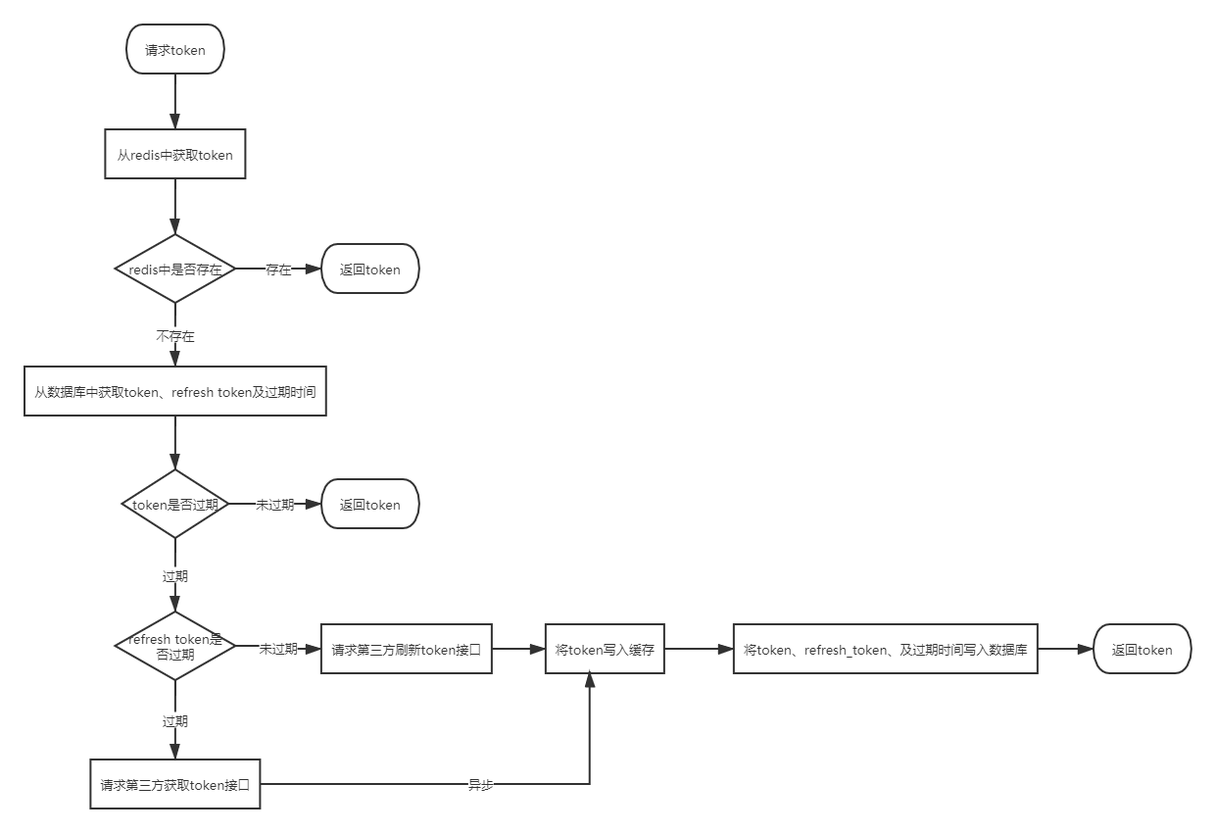
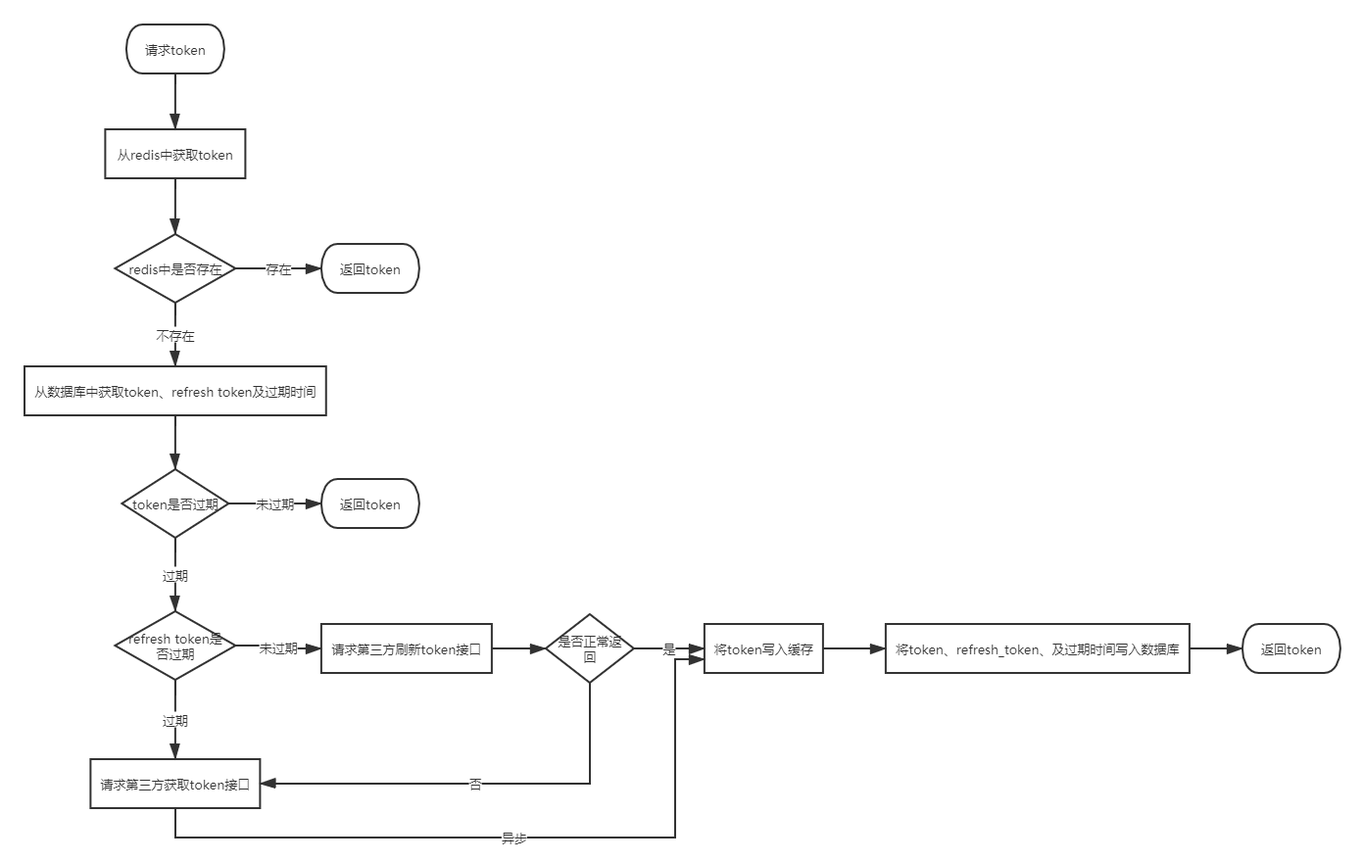
Site updated: 2021-05-08 11:41:47

Changed region(s): [[0.0, 0.0306, 1.0, 0.9788]]

diff --git a/2020/05/06/第三方开放平台登录授权设计与实现/index.html b/2020/05/06/第三方开放平台登录授权设计与实现/index.html
@@ -56,7 +56,7 @@
 <meta property="og:image" content="http://yoursite.com/images/architecture/%E7%AC%AC%E4%B8%89%E6%96%B9%E7%99%BB%E5%BD%95%E6%8E%88%E6%9D%83%E6%8E%A5%E5%8F%A3%E5%AE%9E%E7%8E%B0UML%E7%B1%BB%E5%9B%BE.png">
 <meta property="og:image" content="http://yoursite.com/images/architecture/%E7%AC%AC%E4%B8%89%E6%96%B9token%E8%AF%B7%E6%B1%82%E6%B5%81%E7%A8%8B.png">
 <meta property="article:published_time" content="2020-05-06T07:00:00.000Z">
-<meta property="article:modified_time" content="2021-05-07T13:35:49.600Z">
+<meta property="article:modified_time" content="2021-05-08T03:35:58.079Z">
 <meta property="article:author" content="晴天">
 <meta name="twitter:card" content="summary">
 <meta name="twitter:image" content="http://yoursite.com/images/architecture/%E7%AC%AC%E4%B8%89%E6%96%B9%E7%99%BB%E5%BD%95%E6%8E%88%E6%9D%83%E6%8E%A5%E5%8F%A3%E5%AE%9E%E7%8E%B0UML%E7%B1%BB%E5%9B%BE.png">
@@ -208,7 +208,7 @@
                   <i class="fa fa-calendar-check-o"></i>
                 </span>
                 <span class="post-meta-item-text">更新于</span>
-                <time title="修改时间：2021-05-07 21:35:49" itemprop="dateModified" datetime="2021-05-07T21:35:49+08:00">2021-05-07</time>
+                <time title="修改时间：2021-05-08 11:35:58" itemprop="dateModified" datetime="2021-05-08T11:35:58+08:00">2021-05-08</time>
               </span>
             <span class="post-meta-item">
               <span class="post-meta-item-icon">
@@ -424,7 +424,7 @@
 <h1 id="Oauth-2-0-state-参数"><a href="#Oauth-2-0-state-参数" class="headerlink" title="Oauth 2.0 state 参数"></a>Oauth 2.0 state 参数</h1><p>在请求第三方code时，还需要传递state参数，它是由client使用的不透明参数，用于请求阶段和回调阶段之间的状态保持。请求示例：</p>
 <figure class="highlight plain"><table><tr><td class="gutter"><pre><span class="line">1</span><br></pre></td><td class="code"><pre><span class="line">https:&#x2F;&#x2F;open-oauth.jd.com&#x2F;oauth2&#x2F;authorizeForVOP?app_key&#x3D;xxx&amp;redirect_uri&#x3D;xxx&amp;username&#x3D;xxx&amp;password&#x3D;xxx&amp;response_type&#x3D;code&amp;scope&#x3D;snsapi_base&amp;state&#x3D;xxx</span><br></pre></td></tr></table></figure>
 <p>state可以是一个随机字符串，然后保存在内存里，回调时检查state参数和内存里的值。</p>
-<figure class="highlight java"><table><tr><td class="gutter"><pre><span class="line">1</span><br><span class="line">2</span><br><span class="line">3</span><br><span class="line">4</span><br><span class="line">5</span><br><span class="line">6</span><br><span class="line">7</span><br><span class="line">8</span><br><span class="line">9</span><br><span class="line">10</span><br><span class="line">11</span><br><span class="line">12</span><br><span class="line">13</span><br><span class="line">14</span><br><span class="line">15</span><br><span class="line">16</span><br><span class="line">17</span><br><span class="line">18</span><br><span class="line">19</span><br><span class="line">20</span><br><span class="line">21</span><br><span class="line">22</span><br><span class="line">23</span><br><span class="line">24</span><br><span class="line">25</span><br><span class="line">26</span><br><span class="line">27</span><br><span class="line">28</span><br><span class="line">29</span><br><span class="line">30</span><br><span class="line">31</span><br><span class="line">32</span><br><span class="line">33</span><br><span class="line">34</span><br><span class="line">35</span><br><span class="line">36</span><br><span class="line">37</span><br><span class="line">38</span><br><span class="line">39</span><br><span class="line">40</span><br><span class="line">41</span><br><span class="line">42</span><br><span class="line">43</span><br><span class="line">44</span><br><span class="line">45</span><br><span class="line">46</span><br><span class="line">47</span><br><span class="line">48</span><br><span class="line">49</span><br><span class="line">50</span><br><span class="line">51</span><br><span class="line">52</span><br><span class="line">53</span><br><span class="line">54</span><br><span class="line">55</span><br><span class="line">56</span><br><span class="line">57</span><br><span class="line">58</span><br><span class="line">59</span><br><span class="line">60</span><br><span class="line">61</span><br><span class="line">62</span><br><span class="line">63</span><br><span class="line">64</span><br><span class="line">65</span><br></pre></td><td class="code"><pre><span class="line"><span class="comment">/**</span></span><br><span class="line"><span class="comment"> * 第三方帐号 Service</span></span><br><span class="line"><span class="comment"> *</span></span><br><span class="line"><span class="comment"> * <span class="doctag">@author</span> cdrcool</span></span><br><span class="line"><span class="comment"> */</span></span><br><span class="line"><span class="meta">@Slf</span>4j</span><br><span class="line"><span class="keyword">public</span> <span class="keyword">abstract</span> <span class="class"><span class="keyword">class</span> <span class="title">ThirdAccountService</span> </span>&#123;</span><br><span class="line">    <span class="keyword">private</span> <span class="keyword">static</span> <span class="keyword">final</span> Map&lt;String, TokenRequestInfo&gt; STORE = <span class="keyword">new</span> ConcurrentHashMap&lt;&gt;();</span><br><span class="line"></span><br><span class="line">    <span class="comment">/**</span></span><br><span class="line"><span class="comment">     * 请求第三方token</span></span><br><span class="line"><span class="comment">     *</span></span><br><span class="line"><span class="comment">     * <span class="doctag">@param</span> taxpayerId     纳税人识别号</span></span><br><span class="line"><span class="comment">     * <span class="doctag">@param</span> deferredResult &#123;<span class="doctag">@link</span> DeferredResult&#125;</span></span><br><span class="line"><span class="comment">     */</span></span><br><span class="line">    <span class="function"><span class="keyword">public</span> <span class="keyword">void</span> <span class="title">requestAccessToken</span><span class="params">(String taxpayerId, DeferredResult&lt;String&gt; deferredResult)</span> </span>&#123;</span><br><span class="line">        ThirdAccount thirdAccount = getThirdAccount(taxpayerId);</span><br><span class="line">        String state = UUID.randomUUID().toString();</span><br><span class="line">        requestAccessToken(thirdAccount, state);</span><br><span class="line"></span><br><span class="line">        TokenRequestInfo tokenRequestInfo = <span class="keyword">new</span> TokenRequestInfo(state, accountType(), thirdAccount.getAccount());</span><br><span class="line">        <span class="comment">// 保存当前请求的deferredResult，在token回调成功后对其setResult</span></span><br><span class="line">        tokenRequestInfo.setDeferredResult(deferredResult);</span><br><span class="line">        STORE.put(state, tokenRequestInfo);</span><br><span class="line">    &#125;</span><br><span class="line"></span><br><span class="line">    <span class="comment">/**</span></span><br><span class="line"><span class="comment">     * 获取第三方token回调</span></span><br><span class="line"><span class="comment">     *</span></span><br><span class="line"><span class="comment">     * <span class="doctag">@param</span> code  授权码</span></span><br><span class="line"><span class="comment">     * <span class="doctag">@param</span> state 回传state（与传递给第三方的state一致）</span></span><br><span class="line"><span class="comment">     */</span></span><br><span class="line">    <span class="meta">@Async</span></span><br><span class="line">    <span class="function"><span class="keyword">public</span> <span class="keyword">void</span> <span class="title">callbackToken</span><span class="params">(String code, String state)</span> </span>&#123;</span><br><span class="line">        TokenResponse response = getTokenResponse(code);</span><br><span class="line"></span><br><span class="line">        TokenRequestInfo tokenRequestInfo = STORE.get(state);</span><br><span class="line">        <span class="keyword">if</span> (tokenRequestInfo == <span class="keyword">null</span>) &#123;</span><br><span class="line">            <span class="keyword">throw</span> <span class="keyword">new</span> ThirdAccountException(<span class="string">"未找到与state：&#123;&#125;对应的token请求信息："</span> + state);</span><br><span class="line">        &#125;</span><br><span class="line">        log.info(<span class="string">"找到state：&#123;&#125;对应的第三方帐号：&#123;&#125;"</span>, state, tokenRequestInfo.getAccount());</span><br><span class="line"></span><br><span class="line">        <span class="comment">// 将第三方帐号及其对应的token存到redis缓存</span></span><br><span class="line">        redisTemplate.opsForValue().set(tokenRequestInfo.getAccount(), response.getAccessToken(), response.getExpiresIn(), TimeUnit.SECONDS);</span><br><span class="line"></span><br><span class="line">        <span class="comment">// 查找第三方帐号，并更新其对应的token响应</span></span><br><span class="line">        LambdaQueryWrapper&lt;ThirdAccount&gt; jdAccountWrapper = Wrappers.lambdaQuery();</span><br><span class="line">        jdAccountWrapper.eq(ThirdAccount::getAccount, tokenRequestInfo.getAccount());</span><br><span class="line">        ThirdAccount thirdAccount = thirdAccountMapper.selectOne(jdAccountWrapper);</span><br><span class="line">        <span class="keyword">if</span> (thirdAccount == <span class="keyword">null</span>) &#123;</span><br><span class="line">            <span class="keyword">throw</span> <span class="keyword">new</span> ThirdAccountException(<span class="string">"未找到第三方帐号："</span> + tokenRequestInfo.getAccount());</span><br><span class="line">        &#125;</span><br><span class="line">        thirdAccount.setAccessToken(response.getAccessToken());</span><br><span class="line">        thirdAccount.setRefreshToken(response.getRefreshToken());</span><br><span class="line">        thirdAccount.setAccessTokenExpiresAt(response.getTime() + response.getExpiresIn() * <span class="number">1000</span>);</span><br><span class="line">        thirdAccount.setRefreshTokenExpiresAt(response.getTime() + response.getRefreshTokenExpires() * <span class="number">1000</span>);</span><br><span class="line">        thirdAccountMapper.updateById(thirdAccount);</span><br><span class="line"></span><br><span class="line">        DeferredResult&lt;String&gt; deferredResult = tokenRequestInfo.getDeferredResult();</span><br><span class="line">        <span class="keyword">if</span> (deferredResult != <span class="keyword">null</span>) &#123;</span><br><span class="line">            <span class="comment">// 将token设置到deferredResult里</span></span><br><span class="line">            deferredResult.setResult(response.getAccessToken());</span><br><span class="line">        &#125;</span><br><span class="line">    &#125;</span><br><span class="line">&#125;</span><br></pre></td></tr></table></figure>
+<figure class="highlight java"><table><tr><td class="gutter"><pre><span class="line">1</span><br><span class="line">2</span><br><span class="line">3</span><br><span class="line">4</span><br><span class="line">5</span><br><span class="line">6</span><br><span class="line">7</span><br><span class="line">8</span><br><span class="line">9</span><br><span class="line">10</span><br><span class="line">11</span><br><span class="line">12</span><br><span class="line">13</span><br><span class="line">14</span><br><span class="line">15</span><br><span class="line">16</span><br><span class="line">17</span><br><span class="line">18</span><br><span class="line">19</span><br><span class="line">20</span><br><span class="line">21</span><br><span class="line">22</span><br><span class="line">23</span><br><span class="line">24</span><br><span class="line">25</span><br><span class="line">26</span><br><span class="line">27</span><br><span class="line">28</span><br><span class="line">29</span><br><span class="line">30</span><br><span class="line">31</span><br><span class="line">32</span><br><span class="line">33</span><br><span class="line">34</span><br><span class="line">35</span><br><span class="line">36</span><br><span class="line">37</span><br><span class="line">38</span><br><span class="line">39</span><br><span class="line">40</span><br><span class="line">41</span><br><span class="line">42</span><br><span class="line">43</span><br><span class="line">44</span><br><span class="line">45</span><br><span class="line">46</span><br><span class="line">47</span><br><span class="line">48</span><br><span class="line">49</span><br><span class="line">50</span><br><span class="line">51</span><br><span class="line">52</span><br><span class="line">53</span><br><span class="line">54</span><br><span class="line">55</span><br><span class="line">56</span><br><span class="line">57</span><br><span class="line">58</span><br><span class="line">59</span><br><span class="line">60</span><br><span class="line">61</span><br><span class="line">62</span><br><span class="line">63</span><br></pre></td><td class="code"><pre><span class="line"><span class="comment">/**</span></span><br><span class="line"><span class="comment"> * 第三方帐号 Service</span></span><br><span class="line"><span class="comment"> *</span></span><br><span class="line"><span class="comment"> * <span class="doctag">@author</span> cdrcool</span></span><br><span class="line"><span class="comment"> */</span></span><br><span class="line"><span class="meta">@Slf</span>4j</span><br><span class="line"><span class="keyword">public</span> <span class="keyword">abstract</span> <span class="class"><span class="keyword">class</span> <span class="title">ThirdAccountService</span> </span>&#123;</span><br><span class="line">    <span class="keyword">private</span> <span class="keyword">static</span> <span class="keyword">final</span> Map&lt;String, TokenRequestInfo&gt; STORE = <span class="keyword">new</span> ConcurrentHashMap&lt;&gt;();</span><br><span class="line"></span><br><span class="line">    <span class="comment">/**</span></span><br><span class="line"><span class="comment">     * 请求第三方token</span></span><br><span class="line"><span class="comment">     *</span></span><br><span class="line"><span class="comment">     * <span class="doctag">@param</span> taxpayerId     纳税人识别号</span></span><br><span class="line"><span class="comment">     * <span class="doctag">@param</span> deferredResult &#123;<span class="doctag">@link</span> DeferredResult&#125;</span></span><br><span class="line"><span class="comment">     */</span></span><br><span class="line">    <span class="function"><span class="keyword">public</span> <span class="keyword">void</span> <span class="title">requestAccessToken</span><span class="params">(String taxpayerId, DeferredResult&lt;String&gt; deferredResult)</span> </span>&#123;</span><br><span class="line">        ThirdAccount thirdAccount = getThirdAccount(taxpayerId);</span><br><span class="line">        String state = UUID.randomUUID().toString();</span><br><span class="line">        requestAccessToken(thirdAccount, state);</span><br><span class="line"></span><br><span class="line">        TokenRequestInfo tokenRequestInfo = <span class="keyword">new</span> TokenRequestInfo(state, accountType(), thirdAccount.getAccount());</span><br><span class="line">        <span class="comment">// 保存当前请求的deferredResult，在token回调成功后对其setResult</span></span><br><span class="line">        tokenRequestInfo.setDeferredResult(deferredResult);</span><br><span class="line">        STORE.put(state, tokenRequestInfo);</span><br><span class="line">    &#125;</span><br><span class="line"></span><br><span class="line">    <span class="comment">/**</span></span><br><span class="line"><span class="comment">     * 获取第三方token回调</span></span><br><span class="line"><span class="comment">     *</span></span><br><span class="line"><span class="comment">     * <span class="doctag">@param</span> code  授权码</span></span><br><span class="line"><span class="comment">     * <span class="doctag">@param</span> state 回传state（与传递给第三方的state一致）</span></span><br><span class="line"><span class="comment">     */</span></span><br><span class="line">    <span class="meta">@Async</span></span><br><span class="line">    <span class="function"><span class="keyword">public</span> <span class="keyword">void</span> <span class="title">callbackToken</span><span class="params">(String code, String state)</span> </span>&#123;</span><br><span class="line">        TokenResponse response = getTokenResponse(code);</span><br><span class="line"></span><br><span class="line">        TokenRequestInfo tokenRequestInfo = STORE.get(state);</span><br><span class="line">        <span class="keyword">if</span> (tokenRequestInfo == <span class="keyword">null</span>) &#123;</span><br><span class="line">            <span class="keyword">throw</span> <span class="keyword">new</span> ThirdAccountException(<span class="string">"未找到与state：&#123;&#125;对应的token请求信息："</span> + state);</span><br><span class="line">        &#125;</span><br><span class="line">        log.info(<span class="string">"找到state：&#123;&#125;对应的第三方帐号：&#123;&#125;"</span>, state, tokenRequestInfo.getAccount());</span><br><span class="line"></span><br><span class="line">        <span class="comment">// 将第三方帐号及其对应的token存到redis缓存</span></span><br><span class="line">        redisTemplate.opsForValue().set(tokenRequestInfo.getAccount(), response.getAccessToken(),</span><br><span class="line">                System.currentTimeMillis() - (response.getTime() + response.getExpiresIn() * <span class="number">1000</span>), TimeUnit.MICROSECONDS);</span><br><span class="line"></span><br><span class="line">        <span class="comment">// 查找第三方帐号，并更新其对应的token响应</span></span><br><span class="line">        LambdaQueryWrapper&lt;ThirdAccount&gt; jdAccountWrapper = Wrappers.lambdaQuery();</span><br><span class="line">        jdAccountWrapper.eq(ThirdAccount::getAccount, tokenRequestInfo.getAccount());</span><br><span class="line">        ThirdAccount thirdAccount = thirdAccountMapper.selectOne(jdAccountWrapper);</span><br><span class="line">        <span class="keyword">if</span> (thirdAccount == <span class="keyword">null</span>) &#123;</span><br><span class="line">            <span class="keyword">throw</span> <span class="keyword">new</span> ThirdAccountException(<span class="string">"未找到第三方帐号："</span> + tokenRequestInfo.getAccount());</span><br><span class="line">        &#125;</span><br><span class="line">        <span class="comment">// 更新第三方账号对应的token信息</span></span><br><span class="line">        updateThirdAccount(thirdAccount, response);</span><br><span class="line"></span><br><span class="line">        DeferredResult&lt;String&gt; deferredResult = tokenRequestInfo.getDeferredResult();</span><br><span class="line">        <span class="keyword">if</span> (deferredResult != <span class="keyword">null</span>) &#123;</span><br><span class="line">            <span class="comment">// 将token设置到deferredResult里</span></span><br><span class="line">            deferredResult.setResult(response.getAccessToken());</span><br><span class="line">        &#125;</span><br><span class="line">    &#125;</span><br><span class="line">&#125;</span><br></pre></td></tr></table></figure>
 
 
 

diff --git a/index.html b/index.html
@@ -202,7 +202,7 @@
                   <i class="fa fa-calendar-check-o"></i>
                 </span>
                 <span class="post-meta-item-text">更新于</span>
-                <time title="修改时间：2021-05-07 21:35:49" itemprop="dateModified" datetime="2021-05-07T21:35:49+08:00">2021-05-07</time>
+                <time title="修改时间：2021-05-08 11:35:58" itemprop="dateModified" datetime="2021-05-08T11:35:58+08:00">2021-05-08</time>
               </span>
             <span class="post-meta-item">
               <span class="post-meta-item-icon">
@@ -418,7 +418,7 @@
 <h1 id="Oauth-2-0-state-参数"><a href="#Oauth-2-0-state-参数" class="headerlink" title="Oauth 2.0 state 参数"></a>Oauth 2.0 state 参数</h1><p>在请求第三方code时，还需要传递state参数，它是由client使用的不透明参数，用于请求阶段和回调阶段之间的状态保持。请求示例：</p>
 <figure class="highlight plain"><table><tr><td class="gutter"><pre><span class="line">1</span><br></pre></td><td class="code"><pre><span class="line">https:&#x2F;&#x2F;open-oauth.jd.com&#x2F;oauth2&#x2F;authorizeForVOP?app_key&#x3D;xxx&amp;redirect_uri&#x3D;xxx&amp;username&#x3D;xxx&amp;password&#x3D;xxx&amp;response_type&#x3D;code&amp;scope&#x3D;snsapi_base&amp;state&#x3D;xxx</span><br></pre></td></tr></table></figure>
 <p>state可以是一个随机字符串，然后保存在内存里，回调时检查state参数和内存里的值。</p>
-<figure class="highlight java"><table><tr><td class="gutter"><pre><span class="line">1</span><br><span class="line">2</span><br><span class="line">3</span><br><span class="line">4</span><br><span class="line">5</span><br><span class="line">6</span><br><span class="line">7</span><br><span class="line">8</span><br><span class="line">9</span><br><span class="line">10</span><br><span class="line">11</span><br><span class="line">12</span><br><span class="line">13</span><br><span class="line">14</span><br><span class="line">15</span><br><span class="line">16</span><br><span class="line">17</span><br><span class="line">18</span><br><span class="line">19</span><br><span class="line">20</span><br><span class="line">21</span><br><span class="line">22</span><br><span class="line">23</span><br><span class="line">24</span><br><span class="line">25</span><br><span class="line">26</span><br><span class="line">27</span><br><span class="line">28</span><br><span class="line">29</span><br><span class="line">30</span><br><span class="line">31</span><br><span class="line">32</span><br><span class="line">33</span><br><span class="line">34</span><br><span class="line">35</span><br><span class="line">36</span><br><span class="line">37</span><br><span class="line">38</span><br><span class="line">39</span><br><span class="line">40</span><br><span class="line">41</span><br><span class="line">42</span><br><span class="line">43</span><br><span class="line">44</span><br><span class="line">45</span><br><span class="line">46</span><br><span class="line">47</span><br><span class="line">48</span><br><span class="line">49</span><br><span class="line">50</span><br><span class="line">51</span><br><span class="line">52</span><br><span class="line">53</span><br><span class="line">54</span><br><span class="line">55</span><br><span class="line">56</span><br><span class="line">57</span><br><span class="line">58</span><br><span class="line">59</span><br><span class="line">60</span><br><span class="line">61</span><br><span class="line">62</span><br><span class="line">63</span><br><span class="line">64</span><br><span class="line">65</span><br></pre></td><td class="code"><pre><span class="line"><span class="comment">/**</span></span><br><span class="line"><span class="comment"> * 第三方帐号 Service</span></span><br><span class="line"><span class="comment"> *</span></span><br><span class="line"><span class="comment"> * <span class="doctag">@author</span> cdrcool</span></span><br><span class="line"><span class="comment"> */</span></span><br><span class="line"><span class="meta">@Slf</span>4j</span><br><span class="line"><span class="keyword">public</span> <span class="keyword">abstract</span> <span class="class"><span class="keyword">class</span> <span class="title">ThirdAccountService</span> </span>&#123;</span><br><span class="line">    <span class="keyword">private</span> <span class="keyword">static</span> <span class="keyword">final</span> Map&lt;String, TokenRequestInfo&gt; STORE = <span class="keyword">new</span> ConcurrentHashMap&lt;&gt;();</span><br><span class="line"></span><br><span class="line">    <span class="comment">/**</span></span><br><span class="line"><span class="comment">     * 请求第三方token</span></span><br><span class="line"><span class="comment">     *</span></span><br><span class="line"><span class="comment">     * <span class="doctag">@param</span> taxpayerId     纳税人识别号</span></span><br><span class="line"><span class="comment">     * <span class="doctag">@param</span> deferredResult &#123;<span class="doctag">@link</span> DeferredResult&#125;</span></span><br><span class="line"><span class="comment">     */</span></span><br><span class="line">    <span class="function"><span class="keyword">public</span> <span class="keyword">void</span> <span class="title">requestAccessToken</span><span class="params">(String taxpayerId, DeferredResult&lt;String&gt; deferredResult)</span> </span>&#123;</span><br><span class="line">        ThirdAccount thirdAccount = getThirdAccount(taxpayerId);</span><br><span class="line">        String state = UUID.randomUUID().toString();</span><br><span class="line">        requestAccessToken(thirdAccount, state);</span><br><span class="line"></span><br><span class="line">        TokenRequestInfo tokenRequestInfo = <span class="keyword">new</span> TokenRequestInfo(state, accountType(), thirdAccount.getAccount());</span><br><span class="line">        <span class="comment">// 保存当前请求的deferredResult，在token回调成功后对其setResult</span></span><br><span class="line">        tokenRequestInfo.setDeferredResult(deferredResult);</span><br><span class="line">        STORE.put(state, tokenRequestInfo);</span><br><span class="line">    &#125;</span><br><span class="line"></span><br><span class="line">    <span class="comment">/**</span></span><br><span class="line"><span class="comment">     * 获取第三方token回调</span></span><br><span class="line"><span class="comment">     *</span></span><br><span class="line"><span class="comment">     * <span class="doctag">@param</span> code  授权码</span></span><br><span class="line"><span class="comment">     * <span class="doctag">@param</span> state 回传state（与传递给第三方的state一致）</span></span><br><span class="line"><span class="comment">     */</span></span><br><span class="line">    <span class="meta">@Async</span></span><br><span class="line">    <span class="function"><span class="keyword">public</span> <span class="keyword">void</span> <span class="title">callbackToken</span><span class="params">(String code, String state)</span> </span>&#123;</span><br><span class="line">        TokenResponse response = getTokenResponse(code);</span><br><span class="line"></span><br><span class="line">        TokenRequestInfo tokenRequestInfo = STORE.get(state);</span><br><span class="line">        <span class="keyword">if</span> (tokenRequestInfo == <span class="keyword">null</span>) &#123;</span><br><span class="line">            <span class="keyword">throw</span> <span class="keyword">new</span> ThirdAccountException(<span class="string">"未找到与state：&#123;&#125;对应的token请求信息："</span> + state);</span><br><span class="line">        &#125;</span><br><span class="line">        log.info(<span class="string">"找到state：&#123;&#125;对应的第三方帐号：&#123;&#125;"</span>, state, tokenRequestInfo.getAccount());</span><br><span class="line"></span><br><span class="line">        <span class="comment">// 将第三方帐号及其对应的token存到redis缓存</span></span><br><span class="line">        redisTemplate.opsForValue().set(tokenRequestInfo.getAccount(), response.getAccessToken(), response.getExpiresIn(), TimeUnit.SECONDS);</span><br><span class="line"></span><br><span class="line">        <span class="comment">// 查找第三方帐号，并更新其对应的token响应</span></span><br><span class="line">        LambdaQueryWrapper&lt;ThirdAccount&gt; jdAccountWrapper = Wrappers.lambdaQuery();</span><br><span class="line">        jdAccountWrapper.eq(ThirdAccount::getAccount, tokenRequestInfo.getAccount());</span><br><span class="line">        ThirdAccount thirdAccount = thirdAccountMapper.selectOne(jdAccountWrapper);</span><br><span class="line">        <span class="keyword">if</span> (thirdAccount == <span class="keyword">null</span>) &#123;</span><br><span class="line">            <span class="keyword">throw</span> <span class="keyword">new</span> ThirdAccountException(<span class="string">"未找到第三方帐号："</span> + tokenRequestInfo.getAccount());</span><br><span class="line">        &#125;</span><br><span class="line">        thirdAccount.setAccessToken(response.getAccessToken());</span><br><span class="line">        thirdAccount.setRefreshToken(response.getRefreshToken());</span><br><span class="line">        thirdAccount.setAccessTokenExpiresAt(response.getTime() + response.getExpiresIn() * <span class="number">1000</span>);</span><br><span class="line">        thirdAccount.setRefreshTokenExpiresAt(response.getTime() + response.getRefreshTokenExpires() * <span class="number">1000</span>);</span><br><span class="line">        thirdAccountMapper.updateById(thirdAccount);</span><br><span class="line"></span><br><span class="line">        DeferredResult&lt;String&gt; deferredResult = tokenRequestInfo.getDeferredResult();</span><br><span class="line">        <span class="keyword">if</span> (deferredResult != <span class="keyword">null</span>) &#123;</span><br><span class="line">            <span class="comment">// 将token设置到deferredResult里</span></span><br><span class="line">            deferredResult.setResult(response.getAccessToken());</span><br><span class="line">        &#125;</span><br><span class="line">    &#125;</span><br><span class="line">&#125;</span><br></pre></td></tr></table></figure>
+<figure class="highlight java"><table><tr><td class="gutter"><pre><span class="line">1</span><br><span class="line">2</span><br><span class="line">3</span><br><span class="line">4</span><br><span class="line">5</span><br><span class="line">6</span><br><span class="line">7</span><br><span class="line">8</span><br><span class="line">9</span><br><span class="line">10</span><br><span class="line">11</span><br><span class="line">12</span><br><span class="line">13</span><br><span class="line">14</span><br><span class="line">15</span><br><span class="line">16</span><br><span class="line">17</span><br><span class="line">18</span><br><span class="line">19</span><br><span class="line">20</span><br><span class="line">21</span><br><span class="line">22</span><br><span class="line">23</span><br><span class="line">24</span><br><span class="line">25</span><br><span class="line">26</span><br><span class="line">27</span><br><span class="line">28</span><br><span class="line">29</span><br><span class="line">30</span><br><span class="line">31</span><br><span class="line">32</span><br><span class="line">33</span><br><span class="line">34</span><br><span class="line">35</span><br><span class="line">36</span><br><span class="line">37</span><br><span class="line">38</span><br><span class="line">39</span><br><span class="line">40</span><br><span class="line">41</span><br><span class="line">42</span><br><span class="line">43</span><br><span class="line">44</span><br><span class="line">45</span><br><span class="line">46</span><br><span class="line">47</span><br><span class="line">48</span><br><span class="line">49</span><br><span class="line">50</span><br><span class="line">51</span><br><span class="line">52</span><br><span class="line">53</span><br><span class="line">54</span><br><span class="line">55</span><br><span class="line">56</span><br><span class="line">57</span><br><span class="line">58</span><br><span class="line">59</span><br><span class="line">60</span><br><span class="line">61</span><br><span class="line">62</span><br><span class="line">63</span><br></pre></td><td class="code"><pre><span class="line"><span class="comment">/**</span></span><br><span class="line"><span class="comment"> * 第三方帐号 Service</span></span><br><span class="line"><span class="comment"> *</span></span><br><span class="line"><span class="comment"> * <span class="doctag">@author</span> cdrcool</span></span><br><span class="line"><span class="comment"> */</span></span><br><span class="line"><span class="meta">@Slf</span>4j</span><br><span class="line"><span class="keyword">public</span> <span class="keyword">abstract</span> <span class="class"><span class="keyword">class</span> <span class="title">ThirdAccountService</span> </span>&#123;</span><br><span class="line">    <span class="keyword">private</span> <span class="keyword">static</span> <span class="keyword">final</span> Map&lt;String, TokenRequestInfo&gt; STORE = <span class="keyword">new</span> ConcurrentHashMap&lt;&gt;();</span><br><span class="line"></span><br><span class="line">    <span class="comment">/**</span></span><br><span class="line"><span class="comment">     * 请求第三方token</span></span><br><span class="line"><span class="comment">     *</span></span><br><span class="line"><span class="comment">     * <span class="doctag">@param</span> taxpayerId     纳税人识别号</span></span><br><span class="line"><span class="comment">     * <span class="doctag">@param</span> deferredResult &#123;<span class="doctag">@link</span> DeferredResult&#125;</span></span><br><span class="line"><span class="comment">     */</span></span><br><span class="line">    <span class="function"><span class="keyword">public</span> <span class="keyword">void</span> <span class="title">requestAccessToken</span><span class="params">(String taxpayerId, DeferredResult&lt;String&gt; deferredResult)</span> </span>&#123;</span><br><span class="line">        ThirdAccount thirdAccount = getThirdAccount(taxpayerId);</span><br><span class="line">        String state = UUID.randomUUID().toString();</span><br><span class="line">        requestAccessToken(thirdAccount, state);</span><br><span class="line"></span><br><span class="line">        TokenRequestInfo tokenRequestInfo = <span class="keyword">new</span> TokenRequestInfo(state, accountType(), thirdAccount.getAccount());</span><br><span class="line">        <span class="comment">// 保存当前请求的deferredResult，在token回调成功后对其setResult</span></span><br><span class="line">        tokenRequestInfo.setDeferredResult(deferredResult);</span><br><span class="line">        STORE.put(state, tokenRequestInfo);</span><br><span class="line">    &#125;</span><br><span class="line"></span><br><span class="line">    <span class="comment">/**</span></span><br><span class="line"><span class="comment">     * 获取第三方token回调</span></span><br><span class="line"><span class="comment">     *</span></span><br><span class="line"><span class="comment">     * <span class="doctag">@param</span> code  授权码</span></span><br><span class="line"><span class="comment">     * <span class="doctag">@param</span> state 回传state（与传递给第三方的state一致）</span></span><br><span class="line"><span class="comment">     */</span></span><br><span class="line">    <span class="meta">@Async</span></span><br><span class="line">    <span class="function"><span class="keyword">public</span> <span class="keyword">void</span> <span class="title">callbackToken</span><span class="params">(String code, String state)</span> </span>&#123;</span><br><span class="line">        TokenResponse response = getTokenResponse(code);</span><br><span class="line"></span><br><span class="line">        TokenRequestInfo tokenRequestInfo = STORE.get(state);</span><br><span class="line">        <span class="keyword">if</span> (tokenRequestInfo == <span class="keyword">null</span>) &#123;</span><br><span class="line">            <span class="keyword">throw</span> <span class="keyword">new</span> ThirdAccountException(<span class="string">"未找到与state：&#123;&#125;对应的token请求信息："</span> + state);</span><br><span class="line">        &#125;</span><br><span class="line">        log.info(<span class="string">"找到state：&#123;&#125;对应的第三方帐号：&#123;&#125;"</span>, state, tokenRequestInfo.getAccount());</span><br><span class="line"></span><br><span class="line">        <span class="comment">// 将第三方帐号及其对应的token存到redis缓存</span></span><br><span class="line">        redisTemplate.opsForValue().set(tokenRequestInfo.getAccount(), response.getAccessToken(),</span><br><span class="line">                System.currentTimeMillis() - (response.getTime() + response.getExpiresIn() * <span class="number">1000</span>), TimeUnit.MICROSECONDS);</span><br><span class="line"></span><br><span class="line">        <span class="comment">// 查找第三方帐号，并更新其对应的token响应</span></span><br><span class="line">        LambdaQueryWrapper&lt;ThirdAccount&gt; jdAccountWrapper = Wrappers.lambdaQuery();</span><br><span class="line">        jdAccountWrapper.eq(ThirdAccount::getAccount, tokenRequestInfo.getAccount());</span><br><span class="line">        ThirdAccount thirdAccount = thirdAccountMapper.selectOne(jdAccountWrapper);</span><br><span class="line">        <span class="keyword">if</span> (thirdAccount == <span class="keyword">null</span>) &#123;</span><br><span class="line">            <span class="keyword">throw</span> <span class="keyword">new</span> ThirdAccountException(<span class="string">"未找到第三方帐号："</span> + tokenRequestInfo.getAccount());</span><br><span class="line">        &#125;</span><br><span class="line">        <span class="comment">// 更新第三方账号对应的token信息</span></span><br><span class="line">        updateThirdAccount(thirdAccount, response);</span><br><span class="line"></span><br><span class="line">        DeferredResult&lt;String&gt; deferredResult = tokenRequestInfo.getDeferredResult();</span><br><span class="line">        <span class="keyword">if</span> (deferredResult != <span class="keyword">null</span>) &#123;</span><br><span class="line">            <span class="comment">// 将token设置到deferredResult里</span></span><br><span class="line">            deferredResult.setResult(response.getAccessToken());</span><br><span class="line">        &#125;</span><br><span class="line">    &#125;</span><br><span class="line">&#125;</span><br></pre></td></tr></table></figure>
 
 
 
